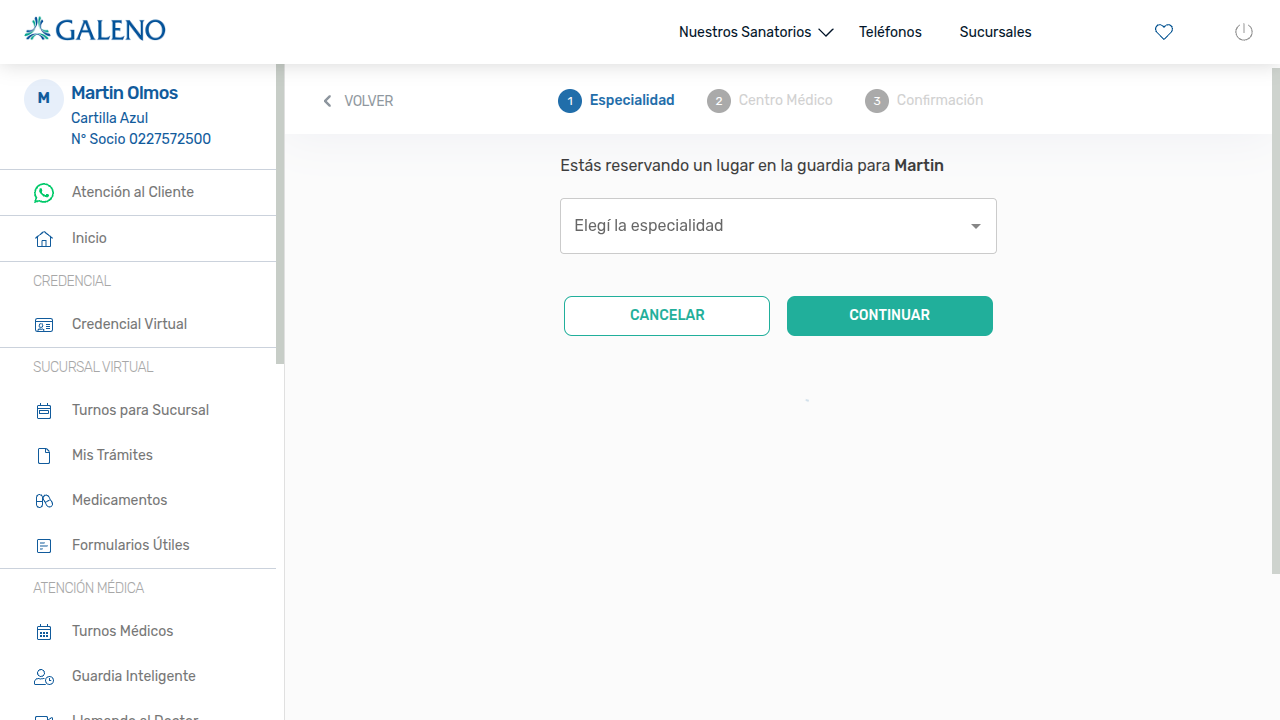
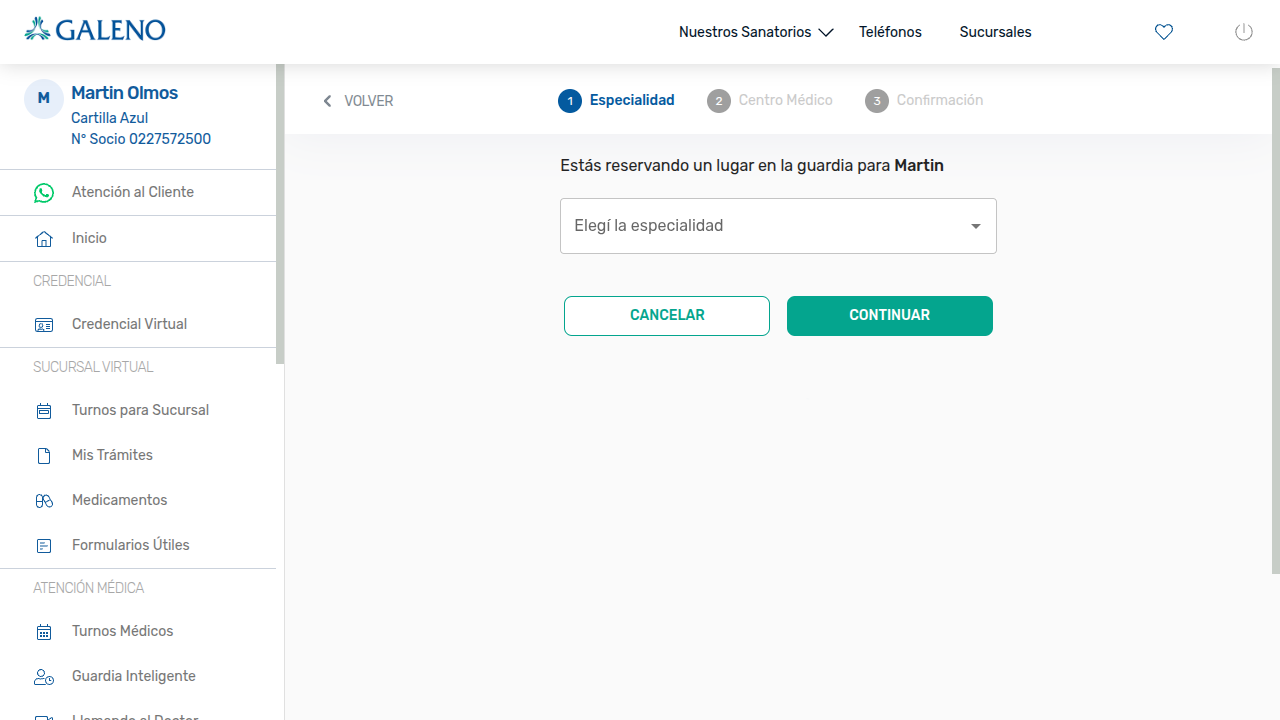
Segundo flujo

diff --git a/utils/pageHelpers.ts b/utils/pageHelpers.ts
@@ -184,7 +184,7 @@ test('turnos medicos - flujo basico', async ({ authenticatedPage }) => {
     throw new Error('No se encontraron fechas disponibles en el calendario')
   }
 
-  // Click la primer fecha disponible con texto
+  // Clicar la primera fecha disponible con texto
   let dateClicked = false
   for (let i = 0; i < datesCount; i++) {
     const d = availableDates.nth(i)
@@ -240,7 +240,7 @@ test('turnos medicos - flujo basico', async ({ authenticatedPage }) => {
   await page.waitForSelector('text=Necesitamos tus datos para comunicarnos con vos', { timeout: 90000 })
   await expect(page.getByText('Necesitamos tus datos para comunicarnos con vos')).toBeVisible()
 
-  // Verificar inputs 'N° Área' y 'N° Celular'
+  // Verificar inputs: usar XPaths exactos para 'N° Área' y 'N° Celular'
   const nAreaXpath = '//*[@id="component-outlinedN° Área"]'
   const celularXpath = '//*[@id="component-outlinedN° Celular"]'
   const nAreaInput = page.locator(`xpath=${nAreaXpath}`)
@@ -399,379 +399,5 @@ test('turnos medicos - flujo basico', async ({ authenticatedPage }) => {
   await page.waitForURL('https://portal-test.galeno.com.ar/socio/turno', { timeout: 90000 })
   await expect(page).toHaveURL('https://portal-test.galeno.com.ar/socio/turno')
   await page.screenshot({ path: 'after-return-exact-url.png', fullPage: true })
-
-
-
-// ==========================================
-//  2do flujo: selección por PROFESIONAL
-
-
-// Volver a la home de turnos
-await page.goto('https://portal-test.galeno.com.ar/socio/turno')
-await page.waitForLoadState('domcontentloaded')
-
-// Click en "Nuevo Turno"
-const nuevoTurnoButton2 = page.locator('[data-testid="AddIcon"]')
-await nuevoTurnoButton2.waitFor({ state: 'visible', timeout: 60000 })
-await nuevoTurnoButton2.click()
-
-// Esperar navegación a crear turno
-await page.waitForURL('**/socio/turno/crear', { timeout: 90000 })
-await expect(page).toHaveURL(/\/socio\/turno\/crear/)
-
-// Esperar carga
-await esperarCarga(page)
-
-// Screenshot
-await page.screenshot({ path: 'crear-turno-segunda-vuelta.png', fullPage: true })
-
-//  Seleccionar checkbox "Profesional"
-
-
-// 1. Intento ideal (por accesibilidad)
-let checkboxProfesional = page.getByRole('checkbox', { name: /profesional/i })
-
-
-if ((await checkboxProfesional.count()) === 0) {
-  checkboxProfesional = page.locator('input[type="checkbox"].PrivateSwitchBase-input').nth(1)
-}
-
-// Esperar
-await checkboxProfesional.waitFor({ state: 'attached', timeout: 60000 })
-
-// Click solo si no está marcado
-const isChecked = await checkboxProfesional.isChecked().catch(() => false)
-
-if (!isChecked) {
-  await checkboxProfesional.click({ force: true })
-}
-
-// Validación
-try {
-  await expect(checkboxProfesional).toBeChecked()
-} catch {
-  
-  await page.screenshot({ path: 'checkbox-profesional-error.png', fullPage: true })
-  throw new Error('No se pudo seleccionar el checkbox Profesional')
-}
-//  Buscar profesional "gomez"
-
-
-// Input de profesional 
-const profesionalInput = page.locator('#debug')
-
-// Esperar que esté visible
-await profesionalInput.waitFor({ state: 'visible', timeout: 60000 })
-
-// Escribir "gomez"
-await profesionalInput.fill('gomez')
-
-// Presionar ENTER para disparar búsqueda
-await page.keyboard.press('Enter')
-
-//  Seleccionar primer resultado
-
-
-// Opción esperada: "Gomez Oscar Nereo"
-const profesionalOption = page.getByRole('option', { name: /Gomez Oscar Nereo/i })
-
-try {
-  await profesionalOption.waitFor({ state: 'visible', timeout: 15000 })
-  await profesionalOption.first().click()
-} catch (e) {
-  // fallback: agarrar la primera opción disponible
-  const firstOption = page.locator('[role="option"]').first()
-  await firstOption.waitFor({ state: 'visible', timeout: 15000 })
-  await firstOption.click()
-}
-
-// Screenshot 
-await page.screenshot({ path: 'profesional-seleccionado.png', fullPage: true })
-
-
-//  Esperar 5 segundos para que se autocompleten los campos
-await page.waitForTimeout(5000)
-
-//  Click en botón CONTINUAR
-const continuarBtn = page.locator('#btnContinuar')
-await continuarBtn.click()
-// ==========================================
-// calendario (2do flujo)
-
-
-const calendarXpath2 = '//*[@id="vertical-tabpanel-0"]/div/div[1]/div/div[1]/div/div[2]'
-const calendar2 = page.locator(`xpath=${calendarXpath2}`)
-await calendar2.waitFor({ state: 'visible', timeout: 90000 })
-
-// Fechas disponibles
-const availableDates2 = calendar2.locator('button:not([disabled])')
-const datesCount2 = await availableDates2.count()
-
-if (datesCount2 === 0) {
-  await page.screenshot({ path: 'calendar2-no-dates.png', fullPage: true })
-  throw new Error('No hay fechas disponibles (flujo 2)')
-}
-
-// Seleccionar fecha
-let dateClicked2 = false
-
-for (let i = 0; i < datesCount2; i++) {
-  const d2 = availableDates2.nth(i)
-  const txt2 = (await d2.innerText()).replace(/\s+/g, ' ').trim()
-
-  if (!txt2) continue
-
-  try {
-    await d2.scrollIntoViewIfNeeded()
-    await d2.click()
-    dateClicked2 = true
-    break
-  } catch {}
-}
-
-if (!dateClicked2) {
-  await page.screenshot({ path: 'calendar2-date-failed.png', fullPage: true })
-  throw new Error('No se pudo seleccionar fecha (flujo 2)')
-}
-
-//  Horarios
-
-
-const timeOptionsXpath2 =
-  '//*[@id="vertical-tabpanel-0"]//button[contains(normalize-space(.),":")]'
-
-const timeOptions2 = page.locator(`xpath=${timeOptionsXpath2}`)
-
-await timeOptions2.first().waitFor({ state: 'visible', timeout: 60000 })
-
-const timeCount2 = await timeOptions2.count()
-
-if (timeCount2 === 0) {
-  await page.screenshot({ path: 'calendar2-no-times.png', fullPage: true })
-  throw new Error('No hay horarios (flujo 2)')
-}
-
-// Seleccionar horario
-let timeClicked2 = false
-
-for (let i = 0; i < timeCount2; i++) {
-  const t2 = timeOptions2.nth(i)
-  const txtTime2 = (await t2.innerText()).trim()
-
-  if (!txtTime2) continue
-
-  try {
-    await t2.scrollIntoViewIfNeeded()
-    await t2.click()
-    timeClicked2 = true
-    break
-  } catch {}
-}
-
-if (!timeClicked2) {
-  await page.screenshot({ path: 'calendar2-time-failed.png', fullPage: true })
-  throw new Error('No se pudo seleccionar horario (flujo 2)')
-}
-
-await page.screenshot({
-  path: 'flujo2-fecha-hora.png',
-  fullPage: true
-})
-
-//  Formulario (variables nuevas)
-
-
-await page.waitForSelector(
-  'text=Necesitamos tus datos para comunicarnos con vos',
-  { timeout: 90000 }
-)
-
-const nAreaInput2 = page.locator('xpath=//*[@id="component-outlinedN° Área"]')
-const celularInput2 = page.locator('xpath=//*[@id="component-outlinedN° Celular"]')
-const emailInput2 = page.locator('xpath=//*[@id="component-outlinedE-mail"]')
-
-await nAreaInput2.waitFor({ state: 'visible' })
-await celularInput2.waitFor({ state: 'visible' })
-await emailInput2.waitFor({ state: 'visible' })
-
-await nAreaInput2.fill('011')
-await celularInput2.fill('59263547')
-await emailInput2.fill('prueba2@gmail.com')
-
-// BOTON CONTINUAR
-
-
-const continuarFinal2 = page.locator('#btnContinuar')
-
-await continuarFinal2.waitFor({ state: 'visible', timeout: 15000 })
-await continuarFinal2.click()
-
-await page.waitForLoadState('networkidle')
-
-await page.screenshot({ path: 'flujo2-after-continuar.png', fullPage: true })
-
-// CONFIRMAR
-
-
-await page.waitForSelector('text=Confirmá el turno', { timeout: 90000 })
-
-const confirmarBtn2 = page.getByRole('button', { name: 'CONFIRMAR' })
-
-await confirmarBtn2.first().waitFor({ state: 'visible', timeout: 15000 })
-await confirmarBtn2.first().click()
-
-await page.waitForLoadState('networkidle')
-
-await page.screenshot({ path: 'flujo2-confirmado.png', fullPage: true })
-
-// 29. Verificar confirmación (flujo 2)
-
-
-const successTexts2 = [
-  '¡Turno confirmado con éxito!',
-  'Turno confirmado con éxito',
-  'Turno confirmado con exito'
-]
-
-let successSeen2 = false
-
-for (const ttxt2 of successTexts2) {
-  try {
-    await page.waitForSelector(`text=${ttxt2}`, { timeout: 60000 })
-    await expect(page.getByText(ttxt2)).toBeVisible()
-    successSeen2 = true
-    break
-  } catch (e) {
-    // continuar
-  }
-}
-
-// role status / alert
-if (!successSeen2) {
-  try {
-    const alert2a = page.getByRole('status')
-    await alert2a.first().waitFor({ state: 'visible', timeout: 30000 })
-    successSeen2 = true
-  } catch {
-    try {
-      const alert2b = page.getByRole('alert')
-      await alert2b.first().waitFor({ state: 'visible', timeout: 30000 })
-      successSeen2 = true
-    } catch {}
-  }
-}
-
-// fallback URL
-if (!successSeen2) {
-  try {
-    await page.waitForURL('**/socio/turno', { timeout: 60000 })
-    successSeen2 = true
-  } catch {}
-}
-
-// error final
-if (!successSeen2) {
-  await page.screenshot({ path: 'flujo2-no-confirmacion.png', fullPage: true })
-  throw new Error('Flujo 2: no se detectó confirmación del turno')
-}
-
-await page.screenshot({
-  path: 'flujo2-turno-confirmado.png',
-  fullPage: true
-})
-
-//  30. Ir al detalle del turno (flujo 2)
-
-const turnoXpath2 =
-  '//*[@id="scrollable-auto-tabpanel-0"]/div/div[1]/div/div/div[4]/div'
-
-const turnoItem2 = page.locator(`xpath=${turnoXpath2}`)
-
-await turnoItem2.waitFor({ state: 'visible', timeout: 60000 })
-await turnoItem2.click()
-
-await page.waitForURL('**/socio/turno/detalle/0')
-await expect(page).toHaveURL(/\/socio\/turno\/detalle\/0/)
-
-await page.screenshot({
-  path: 'flujo2-detalle-turno.png',
-  fullPage: true
-})
-
-// 31. Cancelar turno (flujo 2)
-
-const btnCancelar2 = page.locator('#btnCancelarTurno')
-
-await btnCancelar2.waitFor({ state: 'visible', timeout: 15000 })
-await btnCancelar2.click()
-
-let clickedCancelConfirm2 = false
-
-try {
-  const siBtn2 = page.getByRole('button', { name: 'SI' })
-  await siBtn2.first().click()
-  clickedCancelConfirm2 = true
-} catch {
-  try {
-    const siBtnXpath2 = "//button[.//span[normalize-space(text())='SI']]"
-    const siBtnXpathLoc2 = page.locator(`xpath=${siBtnXpath2}`)
-    await siBtnXpathLoc2.first().click()
-    clickedCancelConfirm2 = true
-  } catch {
-    try {
-      const confirmSpan2 = page.locator(
-        'xpath=/html/body/div[4]/div[3]/div/div/button[2]/span[1]'
-      )
-      await confirmSpan2.click()
-      clickedCancelConfirm2 = true
-    } catch {
-      try {
-        const confirmBtn2 = page.locator(
-          'xpath=/html/body/div[4]/div[3]/div/div/button[2]'
-        )
-        await confirmBtn2.click()
-        clickedCancelConfirm2 = true
-      } catch {
-        await page.screenshot({
-          path: 'flujo2-error-cancel.png',
-          fullPage: true
-        })
-        throw new Error('Flujo 2: no se pudo confirmar cancelación')
-      }
-    }
-  }
-}
-
-// Espera final
-await page.waitForLoadState('networkidle')
-
-await page.screenshot({
-  path: 'flujo2-cancelado.png',
-  fullPage: true
-})
-
-
-
-//  Validar vuelta a home (flujo 2)
-
-await page.waitForURL('https://portal-test.galeno.com.ar/socio/turno', {
-  timeout: 90000
-})
-
-await expect(page).toHaveURL(
-  'https://portal-test.galeno.com.ar/socio/turno'
-)
-
-try {
-  if (!page.isClosed()) {
-    await page.screenshot({
-      path: 'flujo2-turno-confirmado.png',
-      fullPage: true
-    })
-  }
-} catch (e) {
-  console.log(' No se pudo tomar screenshot (page cerrada)')
-}
-
 
 })
